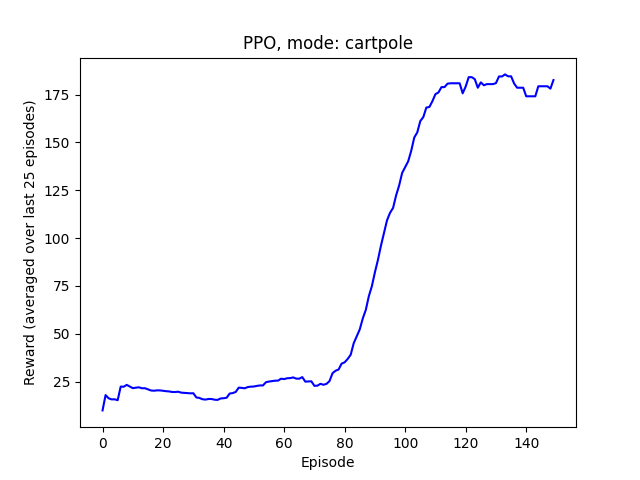
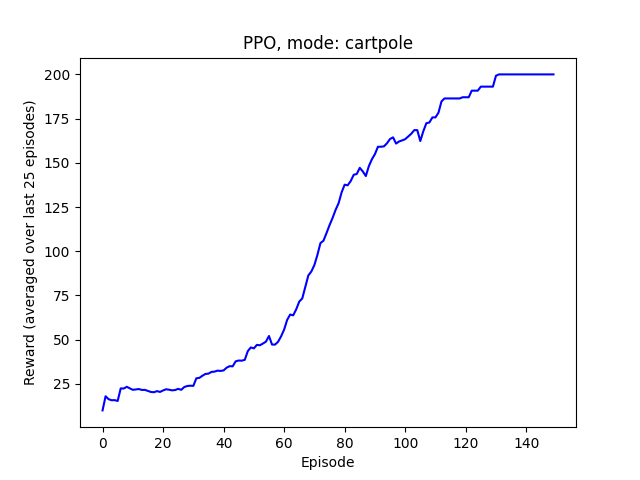
update a02 results

diff --git a/a02/p2/REINFORCE_Baseline.py b/a02/p2/REINFORCE_Baseline.py
@@ -84,13 +84,16 @@ def policy(env, obs):
 # A = tensor of actions taken in episode/ batch of episodes
 # return = tensor where nth element is \sum^{T-n}_0 gamma^n * reward (return at step n of episode)
 def train(S,A,returns):
-    v_criterion = torch.nn.MSELoss()
-    for i in range(POLICY_TRAIN_ITERS):
-        # Update value networks
-        value_loss = v_criterion(V(S).squeeze(), returns)
+    value_criterion = torch.nn.MSELoss()
+    # Update value networks
+    for i in range(S.shape[0]):
+        value = V(S).squeeze()
+        value_loss = value_criterion(value[i], returns[i])
         value_optimizer.zero_grad()
         value_loss.backward()
         value_optimizer.step()
+        
+    for i in range(POLICY_TRAIN_ITERS):
         # Update policy networks
         logsoftmax = torch.nn.LogSoftmax(dim=-1)
         log_pis = logsoftmax(pi(S)).gather(1, A.view(-1, 1)).view(-1)

diff --git a/a02/p2/PPO.py b/a02/p2/PPO.py
@@ -85,13 +85,15 @@ def policy(env, obs):
 
 def train(S,A,returns, old_log_probs):
     value_criterion = torch.nn.MSELoss()
-    for i in range(POLICY_TRAIN_ITERS):
-        # Update value networks
-        value_loss = value_criterion(V(S).squeeze(), returns)
+    # Update value networks
+    for i in range(S.shape[0]):
+        value = V(S).squeeze()
+        value_loss = value_criterion(value[i], returns[i])
         value_optimizer.zero_grad()
         value_loss.backward()
         value_optimizer.step()
 
+    for i in range(POLICY_TRAIN_ITERS):
         # Update policy networks
         advantage = (returns - V(S).squeeze()).detach()
         logsoftmax = torch.nn.LogSoftmax(dim=-1)
